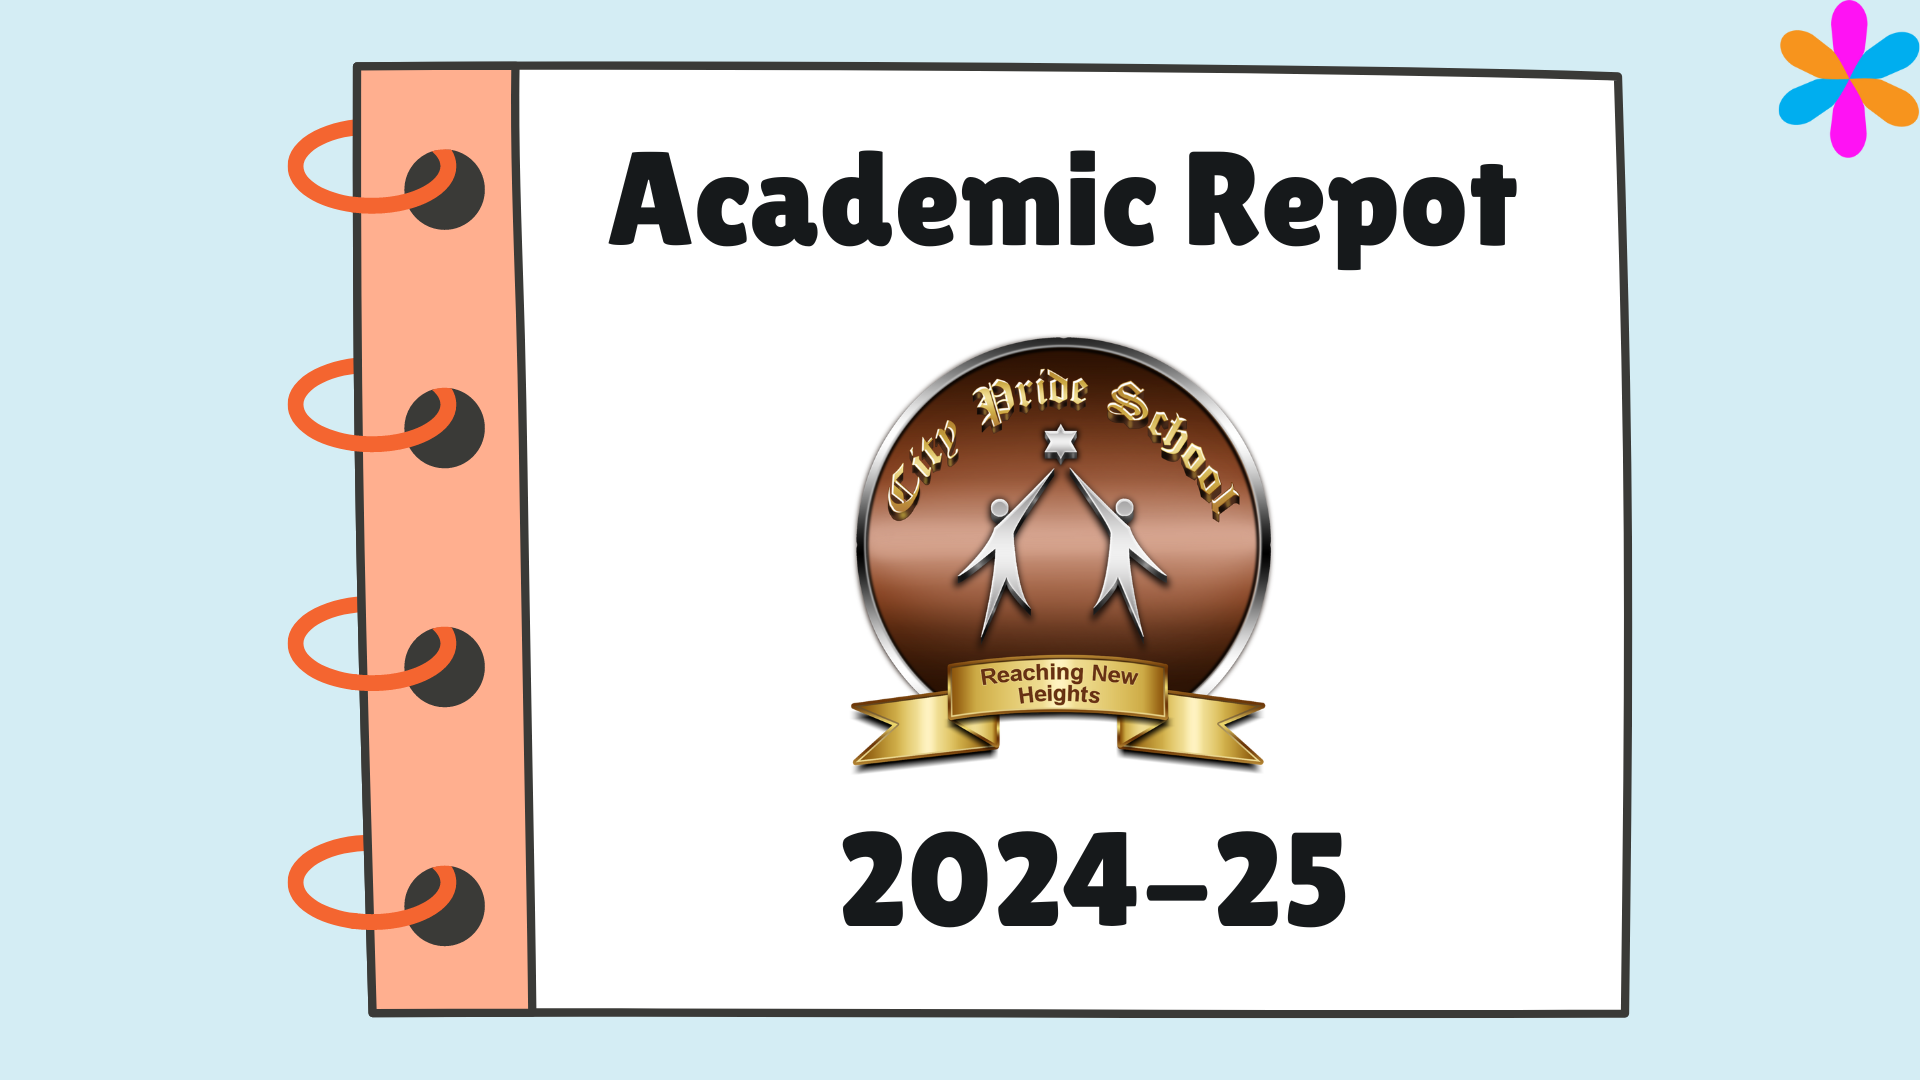
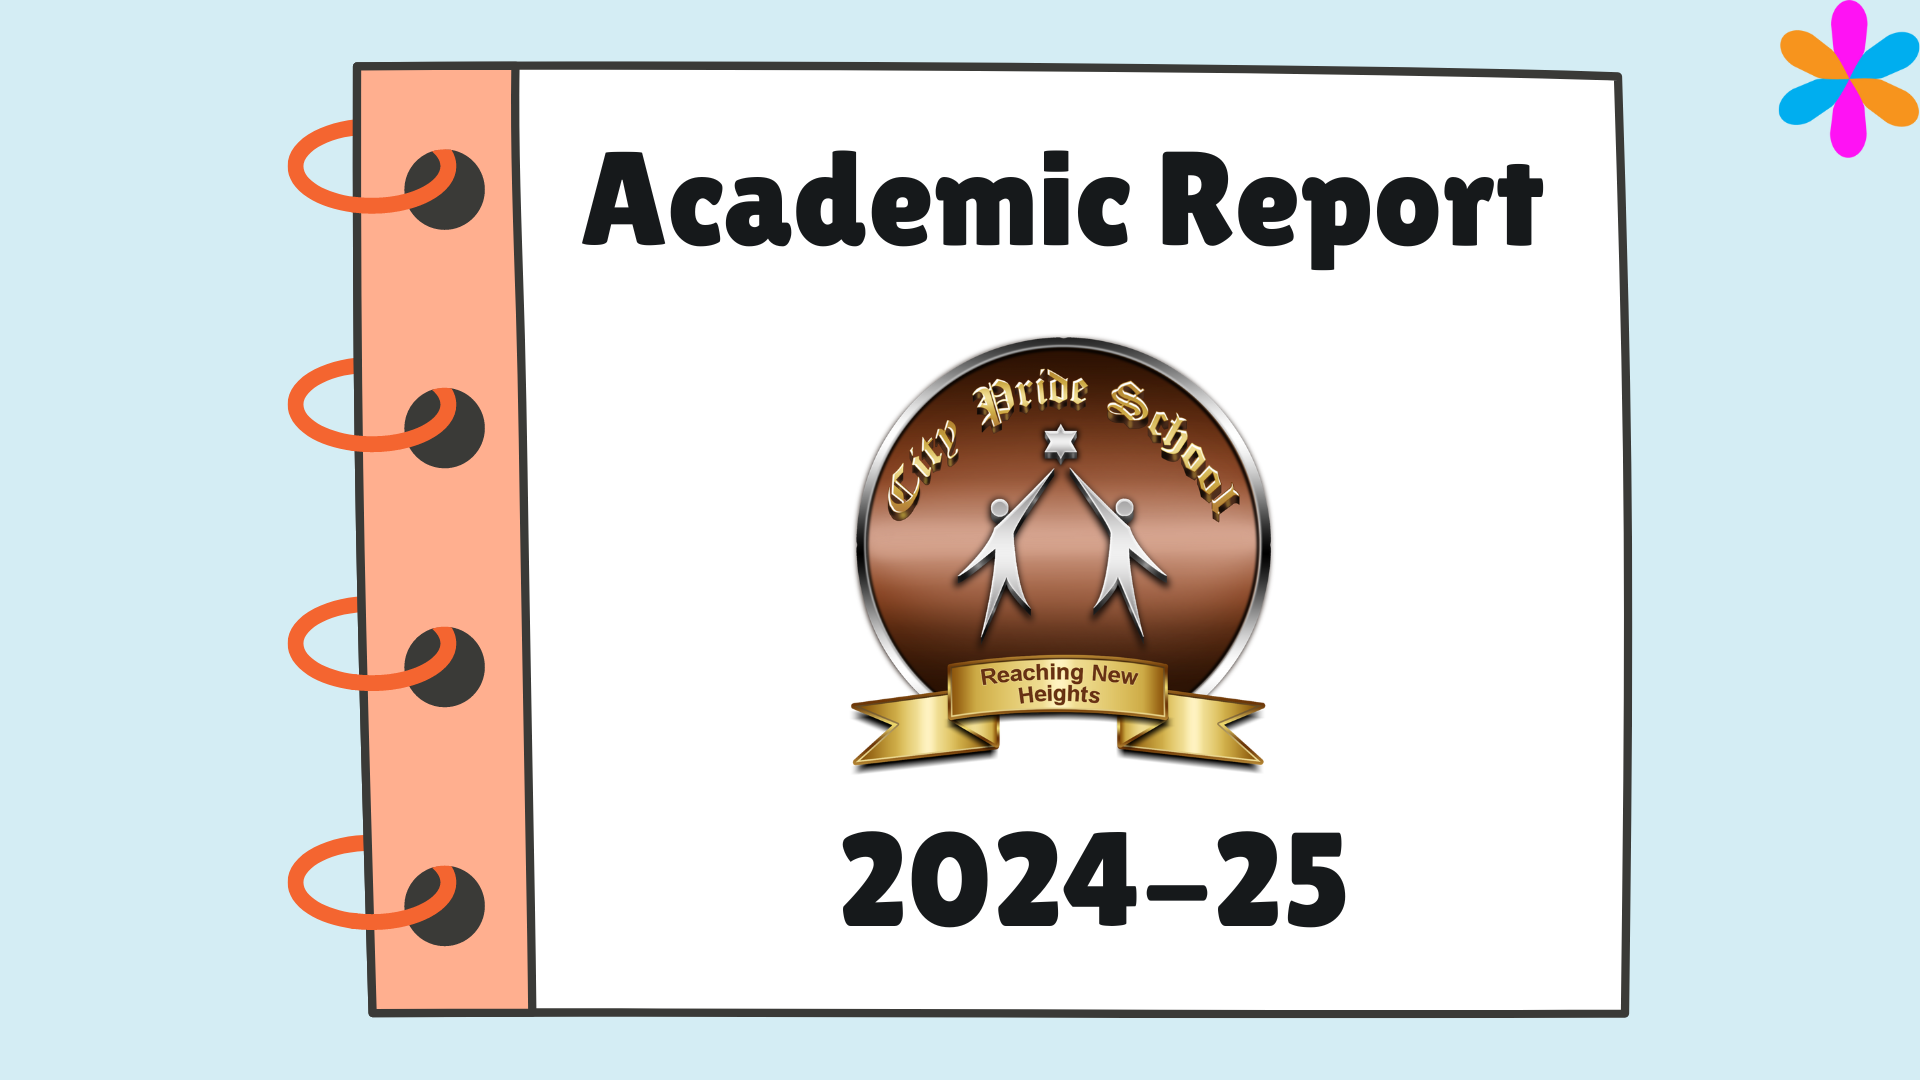
fix pdf first slide and new endingpage

Changed region(s): [[0.2812, 0.1222, 0.8125, 0.275]]

diff --git a/src/scenes/dashboard/index.jsx b/src/scenes/dashboard/index.jsx
@@ -110,7 +110,12 @@ const printDocument = async () => {
     var img = new Image();
     img.src = '/assets/2.png';
     pdf.addImage(img, 'png',0,0 ,410, 300);
-    pdf.addPage();
+
+  pdf.addPage();
+  var endimg = new Image();
+  endimg.src = '/assets/endpage.png';
+  pdf.addImage(endimg, 'png',0,0 ,410, 300);
+  
     // Save the PDF
     pdf.save("download.pdf");
   } catch (error) {
